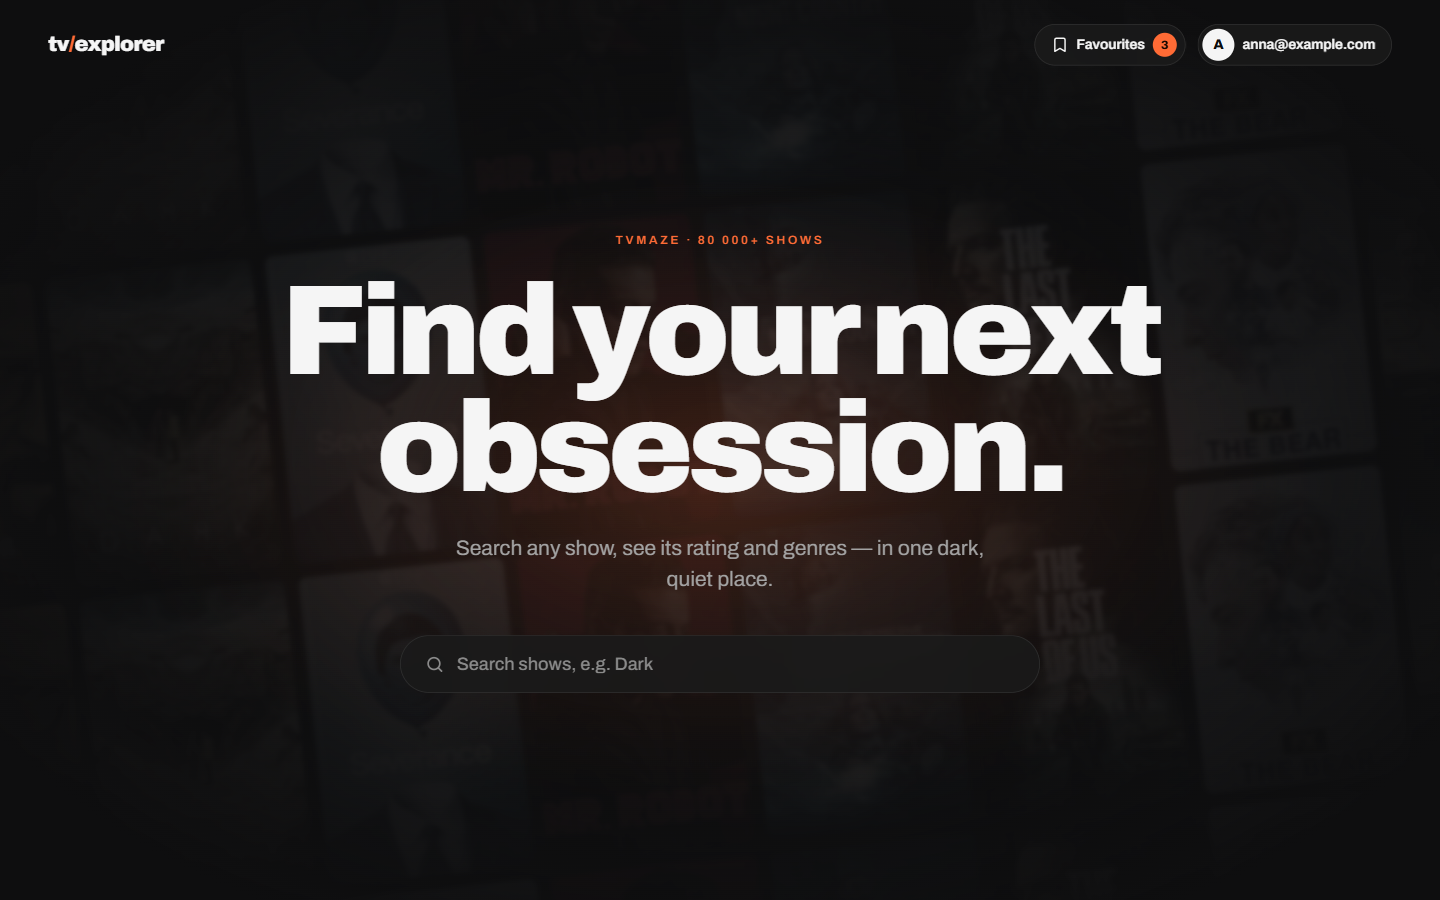
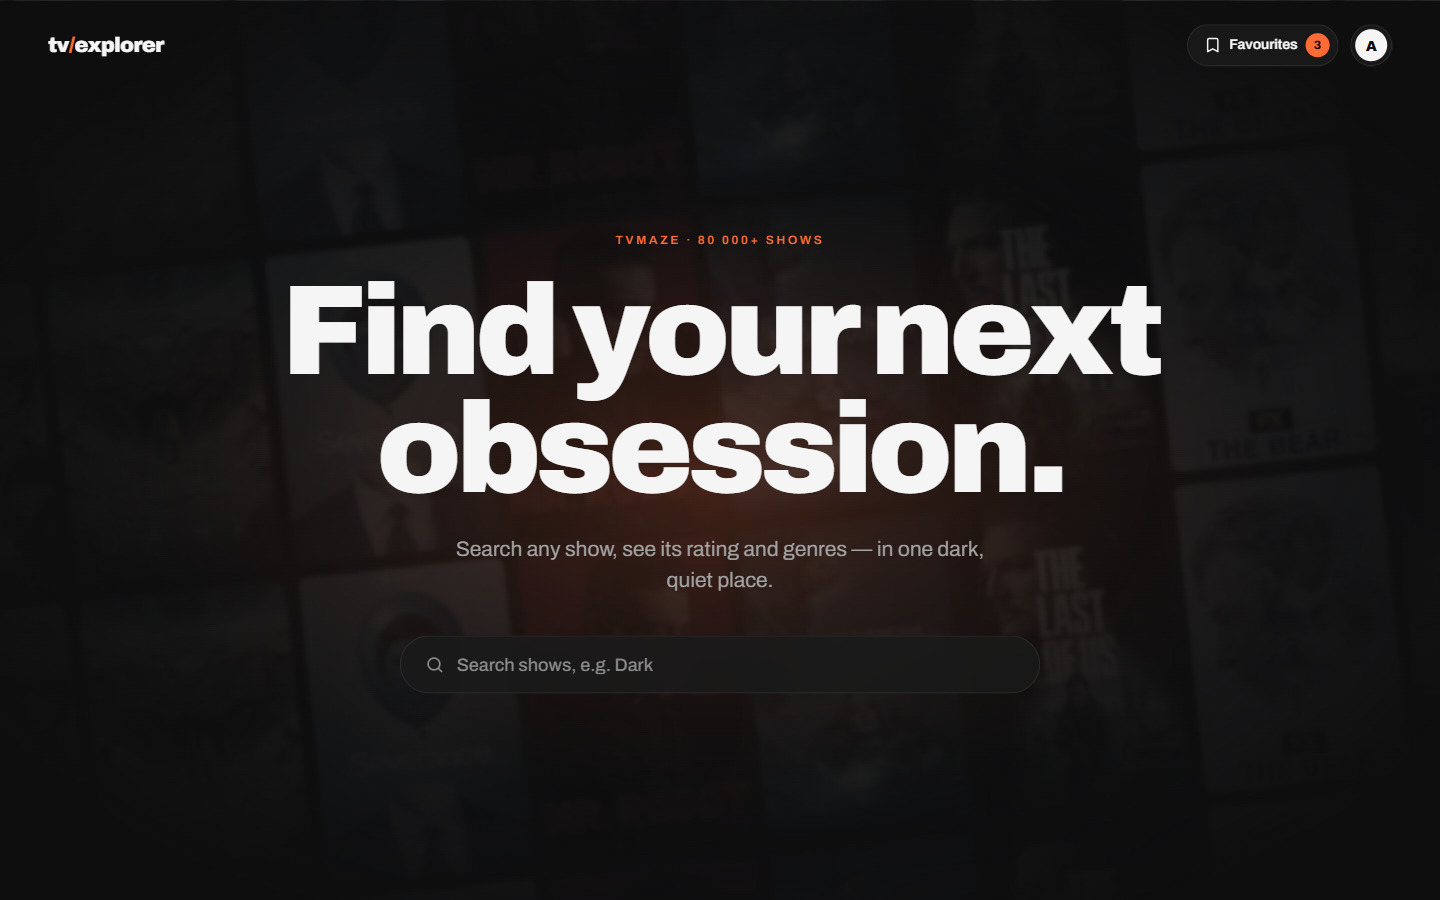
design(accounts): show only the initial in the user menu and fit its panel to the email (#62)

diff --git a/design/library/index.html b/design/library/index.html
@@ -35,7 +35,7 @@
   .on-poster { padding: var(--spacing-3); border-radius: var(--radii-md); background: center / cover url("https://static.tvmaze.com/uploads/images/medium_portrait/504/1262352.jpg"); }
   .drawer-demo { position: relative; height: 34rem; overflow: hidden; border: 1px solid var(--colors-border); border-radius: var(--radii-lg); }
   .drawer-demo .drawer-layer { position: absolute; }
-  .menu-demo { height: 15rem; padding-left: var(--spacing-16); }
+  .menu-demo .cell { width: min(var(--sizes-menuMax), 100%); height: 15rem; align-content: start; justify-items: end; }
   .cell--form { width: 100%; max-width: var(--sizes-form); justify-items: stretch; }
   @media (max-width: 760px) {
     .page { padding: var(--spacing-10) var(--spacing-4); }
@@ -296,19 +296,21 @@
 
   <section class="group">
     <h2>UserMenu</h2>
-    <p>.user-menu · __trigger, __avatar, __email, __panel, __head, __item · .user-menu--compact — the signed-in user in the header</p>
+    <p>.user-menu · __trigger, __avatar, __panel, __head, __item — the signed-in user in the header: the initial on every screen, the email in the panel</p>
     <div class="row">
-      <div class="cell"><small>closed</small><div class="user-menu"><button class="user-menu__trigger" aria-haspopup="menu" aria-expanded="false"><span class="user-menu__avatar" aria-hidden="true">a</span><span class="user-menu__email">anna@example.com</span></button></div></div>
-      <div class="cell"><small>hover</small><div class="user-menu"><button class="user-menu__trigger is-hover" aria-haspopup="menu" aria-expanded="false"><span class="user-menu__avatar" aria-hidden="true">a</span><span class="user-menu__email">anna@example.com</span></button></div></div>
-      <div class="cell"><small>focus</small><div class="user-menu"><button class="user-menu__trigger is-focus" aria-haspopup="menu" aria-expanded="false"><span class="user-menu__avatar" aria-hidden="true">a</span><span class="user-menu__email">anna@example.com</span></button></div></div>
-      <div class="cell"><small>long email</small><div class="user-menu"><button class="user-menu__trigger" aria-haspopup="menu" aria-expanded="false"><span class="user-menu__avatar" aria-hidden="true">m</span><span class="user-menu__email">maximilian.longname@example.com</span></button></div></div>
-      <div class="cell"><small>compact, a phone</small><div class="user-menu user-menu--compact"><button class="user-menu__trigger" aria-haspopup="menu" aria-expanded="false" aria-label="anna@example.com"><span class="user-menu__avatar" aria-hidden="true">a</span><span class="user-menu__email">anna@example.com</span></button></div></div>
+      <div class="cell"><small>closed</small><div class="user-menu"><button class="user-menu__trigger" aria-haspopup="menu" aria-expanded="false" aria-label="anna@example.com"><span class="user-menu__avatar" aria-hidden="true">a</span></button></div></div>
+      <div class="cell"><small>hover</small><div class="user-menu"><button class="user-menu__trigger is-hover" aria-haspopup="menu" aria-expanded="false" aria-label="anna@example.com"><span class="user-menu__avatar" aria-hidden="true">a</span></button></div></div>
+      <div class="cell"><small>focus</small><div class="user-menu"><button class="user-menu__trigger is-focus" aria-haspopup="menu" aria-expanded="false" aria-label="anna@example.com"><span class="user-menu__avatar" aria-hidden="true">a</span></button></div></div>
     </div>
     <div class="row menu-demo">
       <div class="cell"><small>open · Sign out hovered</small>
-        <div class="user-menu"><button class="user-menu__trigger" aria-haspopup="menu" aria-expanded="true"><span class="user-menu__avatar" aria-hidden="true">a</span><span class="user-menu__email">anna@example.com</span></button>
+        <div class="user-menu"><button class="user-menu__trigger" aria-haspopup="menu" aria-expanded="true" aria-label="anna@example.com"><span class="user-menu__avatar" aria-hidden="true">a</span></button>
           <div class="user-menu__panel" role="menu"><div class="user-menu__head"><div class="eyebrow">Signed in as</div><span class="user-menu__head-email">anna@example.com</span></div>
             <button class="user-menu__item is-hover" role="menuitem"><svg class="icon"><use href="#log-out"/></svg>Sign out</button></div></div></div>
+      <div class="cell"><small>open · a long email widens the panel</small>
+        <div class="user-menu"><button class="user-menu__trigger" aria-haspopup="menu" aria-expanded="true" aria-label="maximilian.longname@example.com"><span class="user-menu__avatar" aria-hidden="true">m</span></button>
+          <div class="user-menu__panel" role="menu"><div class="user-menu__head"><div class="eyebrow">Signed in as</div><span class="user-menu__head-email">maximilian.longname@example.com</span></div>
+            <button class="user-menu__item" role="menuitem"><svg class="icon"><use href="#log-out"/></svg>Sign out</button></div></div></div>
     </div>
   </section>
 

diff --git a/design/v0.3/mockup.html b/design/v0.3/mockup.html
@@ -102,7 +102,6 @@
   ];
   const PER_PAGE = 3;
   const EMAIL = "anna@example.com";
-  const PHONE = matchMedia("(max-width: 760px)").matches;
   const byName = (name) => SHOWS.find((s) => s.name === name);
   const icon = (id) => `<svg class="icon"><use href="#${id}"/></svg>`;
 
@@ -118,9 +117,9 @@
     : `<button class="fav-button" aria-haspopup="dialog">${icon("bookmark")}<span class="fav-button__label">Favourites</span>
         <span class="fav-button__count ${n === 0 ? "fav-button__count--zero" : ""}">${n}</span></button>`;
   const userMenu = (open) => `
-    <div class="user-menu ${PHONE ? "user-menu--compact" : ""}">
-      <button class="user-menu__trigger" aria-haspopup="menu" aria-expanded="${open}" ${PHONE ? `aria-label="${EMAIL}"` : ""}>
-        <span class="user-menu__avatar" aria-hidden="true">${EMAIL[0]}</span><span class="user-menu__email">${EMAIL}</span></button>
+    <div class="user-menu">
+      <button class="user-menu__trigger" aria-haspopup="menu" aria-expanded="${open}" aria-label="${EMAIL}">
+        <span class="user-menu__avatar" aria-hidden="true">${EMAIL[0]}</span></button>
       ${open ? `<div class="user-menu__panel" role="menu"><div class="user-menu__head"><div class="eyebrow">Signed in as</div>
         <span class="user-menu__head-email">${EMAIL}</span></div>
         <button class="user-menu__item" role="menuitem">${icon("log-out")}Sign out</button></div>` : ""}
@@ -250,12 +249,12 @@
   const SAVED = ["Dark", "Breaking Bad", "Severance"];
   const SCREENS = [
     ["start-guest", "Start, a guest — the favourites button without a counter and «Sign in» in the top-right corner", start(null)],
-    ["start-user", "Start, signed in — the favourites button with its counter and the user: the initial and the email (only the initial on a phone)", start(SAVED)],
+    ["start-user", "Start, signed in — the favourites button with its counter and the user: the initial, on every screen", start(SAVED)],
     ["results-guest", "Results, a guest — every bookmark is empty; the search works as before", results(null)],
     ["guest-bookmark", "A guest presses the bookmark of Dark — it stays empty, nothing is sent; a toast says why for 4 s and its «Sign in» leads to sign-in. The guest stays on the results", results(null, { overlay: guestToast(byName("Dark")) })],
     ["guest-favourites", "A guest presses Favourites — the drawer opens as for a user, with no counter and no list: what favourites need, «Sign in» and the way to sign up", results(null, { overlay: guestDrawer() })],
     ["results-user", "Results, signed in — the bookmarks of v0.2, the counter of the user's own list", results(SAVED)],
-    ["user-menu", "User menu — a press on the user opens the full email and «Sign out»; signing out makes the page a guest's at once, with no request. Escape and a press outside close it", results(SAVED, { menuOpen: true })],
+    ["user-menu", "User menu — a press on the initial opens the full email and «Sign out»; the panel grows to keep a long email on one line; signing out makes the page a guest's at once, with no request. Escape and a press outside close it", results(SAVED, { menuOpen: true })],
     ["sign-in", "Sign in — from «Sign in» in the header, the guest toast or the guest drawer. The button checks the fields before the request; success leads back to the page the user came from", signIn()],
     ["sign-in-loading", "Sign in, a request on its way — the fields and the eye are disabled, the button shows a spinner and takes no presses", signIn({ email: EMAIL, password: "severance", loading: true })],
     ["sign-in-wrong", "Sign in, wrong email or password — one message for both, so the form does not tell which emails have an account; the password stays for a fix", signIn({ email: EMAIL, password: "severance", alert: "Wrong email or password." })],

diff --git a/design/library/components.css b/design/library/components.css
@@ -225,13 +225,10 @@ body.tokens-pending { visibility: hidden; }
 /* The signed-in user in the header: the initial in a circle and the email (cut at sizes.email); a press opens a menu
    with the full email and «Sign out». --compact drops the email (a phone). Escape and a press outside close it. */
 .user-menu { position: relative; flex: none; }
-.user-menu__trigger { display: inline-flex; align-items: center; gap: var(--spacing-2); border: 1px solid var(--colors-border); border-radius: var(--radii-full); background: var(--colors-bg-glass); color: var(--colors-fg); padding: var(--spacing-1) var(--spacing-4) var(--spacing-1) var(--spacing-1); font: var(--fontWeights-semibold) var(--fontSizes-sm) / var(--lineHeights-tight) var(--fonts-body); cursor: pointer; backdrop-filter: blur(var(--blurs-glass)); transition: background var(--durations-fast) var(--easings-standard), border-color var(--durations-fast) var(--easings-standard); }
+.user-menu__trigger { display: inline-flex; align-items: center; gap: var(--spacing-2); border: 1px solid var(--colors-border); border-radius: var(--radii-full); background: var(--colors-bg-glass); color: var(--colors-fg); padding: var(--spacing-1); cursor: pointer; backdrop-filter: blur(var(--blurs-glass)); transition: background var(--durations-fast) var(--easings-standard), border-color var(--durations-fast) var(--easings-standard); }
 .user-menu__trigger:hover, .user-menu__trigger.is-hover, .user-menu__trigger[aria-expanded="true"] { border-color: var(--colors-fg-subtle); background: var(--colors-bg-muted); }
 .user-menu__avatar { display: grid; place-items: center; width: var(--spacing-8); height: var(--spacing-8); flex: none; border-radius: var(--radii-full); background: var(--colors-fg); color: var(--colors-bg); font-size: var(--fontSizes-sm); font-weight: var(--fontWeights-extrabold); text-transform: uppercase; }
-.user-menu__email { max-width: var(--sizes-email); overflow: hidden; text-overflow: ellipsis; white-space: nowrap; }
-.user-menu--compact .user-menu__trigger { padding-right: var(--spacing-1); }
-.user-menu--compact .user-menu__email { display: none; }
-.user-menu__panel { position: absolute; top: calc(100% + var(--spacing-2)); right: 0; z-index: var(--zIndex-popover); width: var(--sizes-menu); padding: var(--spacing-2); border: 1px solid var(--colors-border); border-radius: var(--radii-md); background: var(--colors-bg-subtle); box-shadow: var(--shadows-overlay); }
+.user-menu__panel { position: absolute; top: calc(100% + var(--spacing-2)); right: 0; z-index: var(--zIndex-popover); width: max-content; min-width: var(--sizes-menu); max-width: min(var(--sizes-menuMax), 100vw - 2 * var(--spacing-4)); padding: var(--spacing-2); border: 1px solid var(--colors-border); border-radius: var(--radii-md); background: var(--colors-bg-subtle); box-shadow: var(--shadows-overlay); }
 .user-menu__head { padding: var(--spacing-2) var(--spacing-3) var(--spacing-3); border-bottom: 1px solid var(--colors-border); margin-bottom: var(--spacing-2); }
 .user-menu__head .eyebrow { color: var(--colors-fg-subtle); }
 .user-menu__head-email { display: block; margin-top: var(--spacing-2); font-weight: var(--fontWeights-semibold); overflow-wrap: anywhere; }

diff --git a/design/README.md b/design/README.md
@@ -107,7 +107,7 @@ component there. A component goes into the code when the first implementation ta
 | TextField | `.field`, `__label`, `__control`, `__toggle`, `__hint`, `__error`, `.field--invalid` | empty, hover, focus, filled, invalid, disabled; a password with the eye button |
 | FormAlert | `.form-alert`, `__text` | wrong email or password, no answer |
 | AuthCard | `.auth-card`, `__title`, `__text`, `__form`, `__footer` | — |
-| UserMenu | `.user-menu`, `__trigger`, `__avatar`, `__email`, `__panel`, `__head`, `__item`, `.user-menu--compact` | closed, hover, focus, long email, compact, open |
+| UserMenu | `.user-menu`, `__trigger`, `__avatar`, `__panel`, `__head`, `__item` | closed, hover, focus, open; open with a long email, which widens the panel |
 
 Rules:
 
